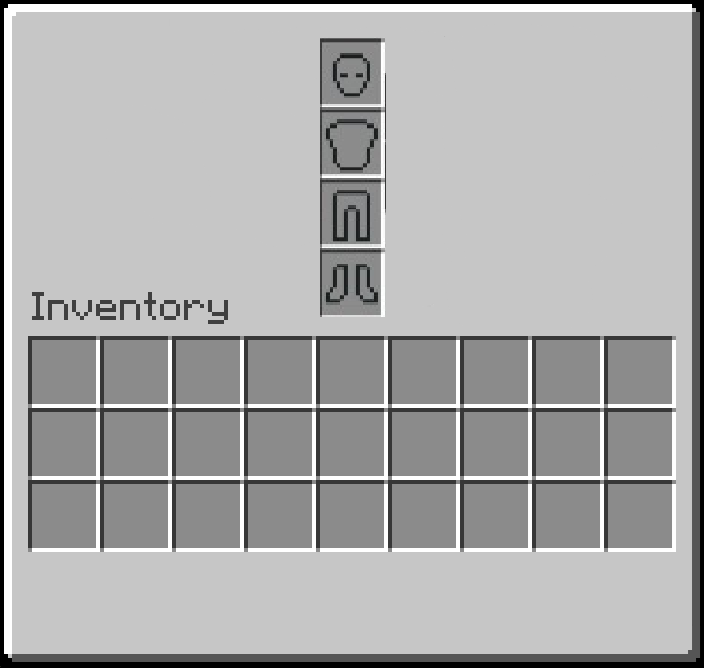
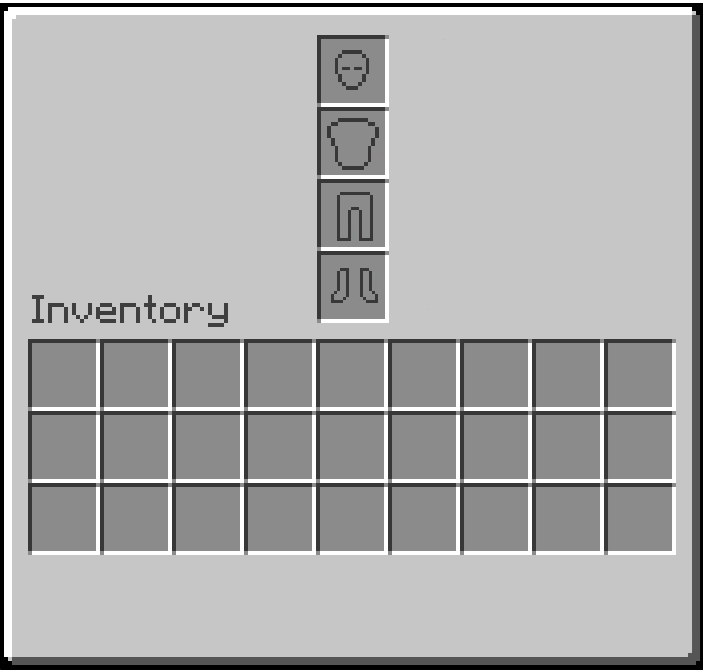
Changed Armor png

diff --git a/src/States/ArmorState.cpp b/src/States/ArmorState.cpp
@@ -3,10 +3,10 @@
 ArmorState :: ArmorState(Player* player, ItemHandler* instantiator) : State(player){
     this->instantiator = instantiator; 
     this->background.load("images/states/armor.png");
-    this->Helmet = ItemContainer(323,50);
-    this->Chestplate = ItemContainer(323, 120);
-    this->Leggins = ItemContainer(323, 190);
-    this-> Boots = ItemContainer(323, 260);
+    this->Helmet = ItemContainer(323,40);
+    this->Chestplate = ItemContainer(323, 110);
+    this->Leggins = ItemContainer(323, 184);
+    this-> Boots = ItemContainer(323, 258);
     
 };
 
